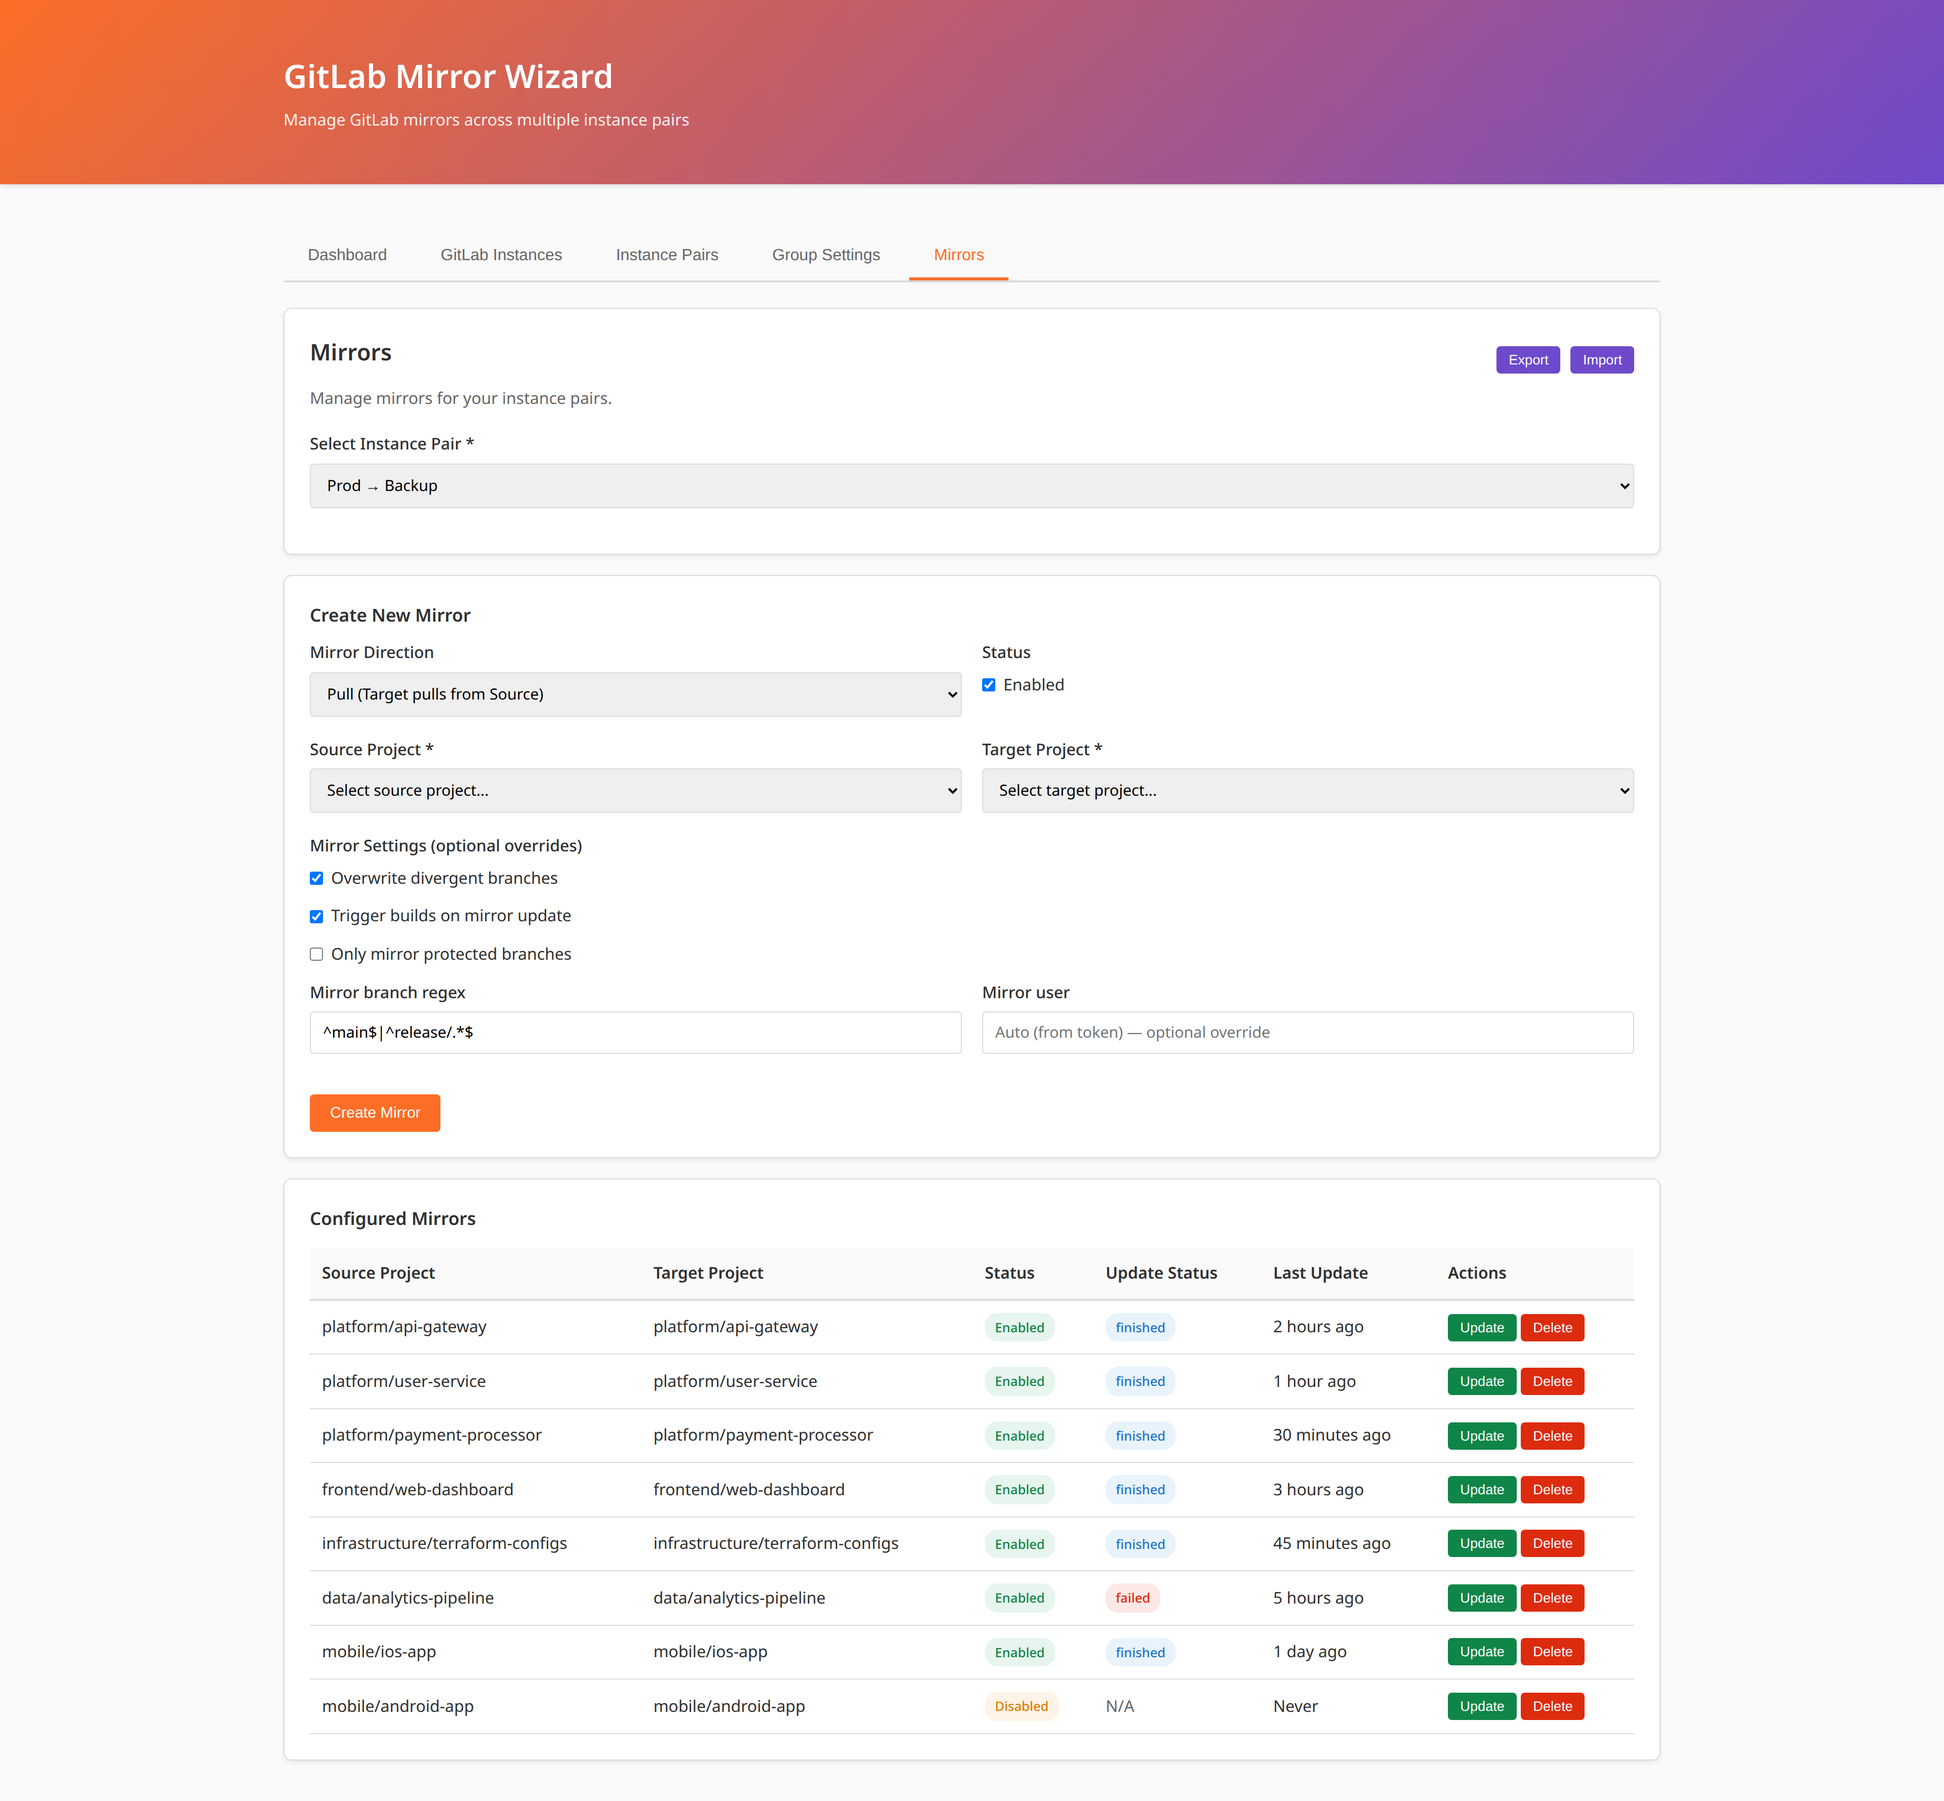
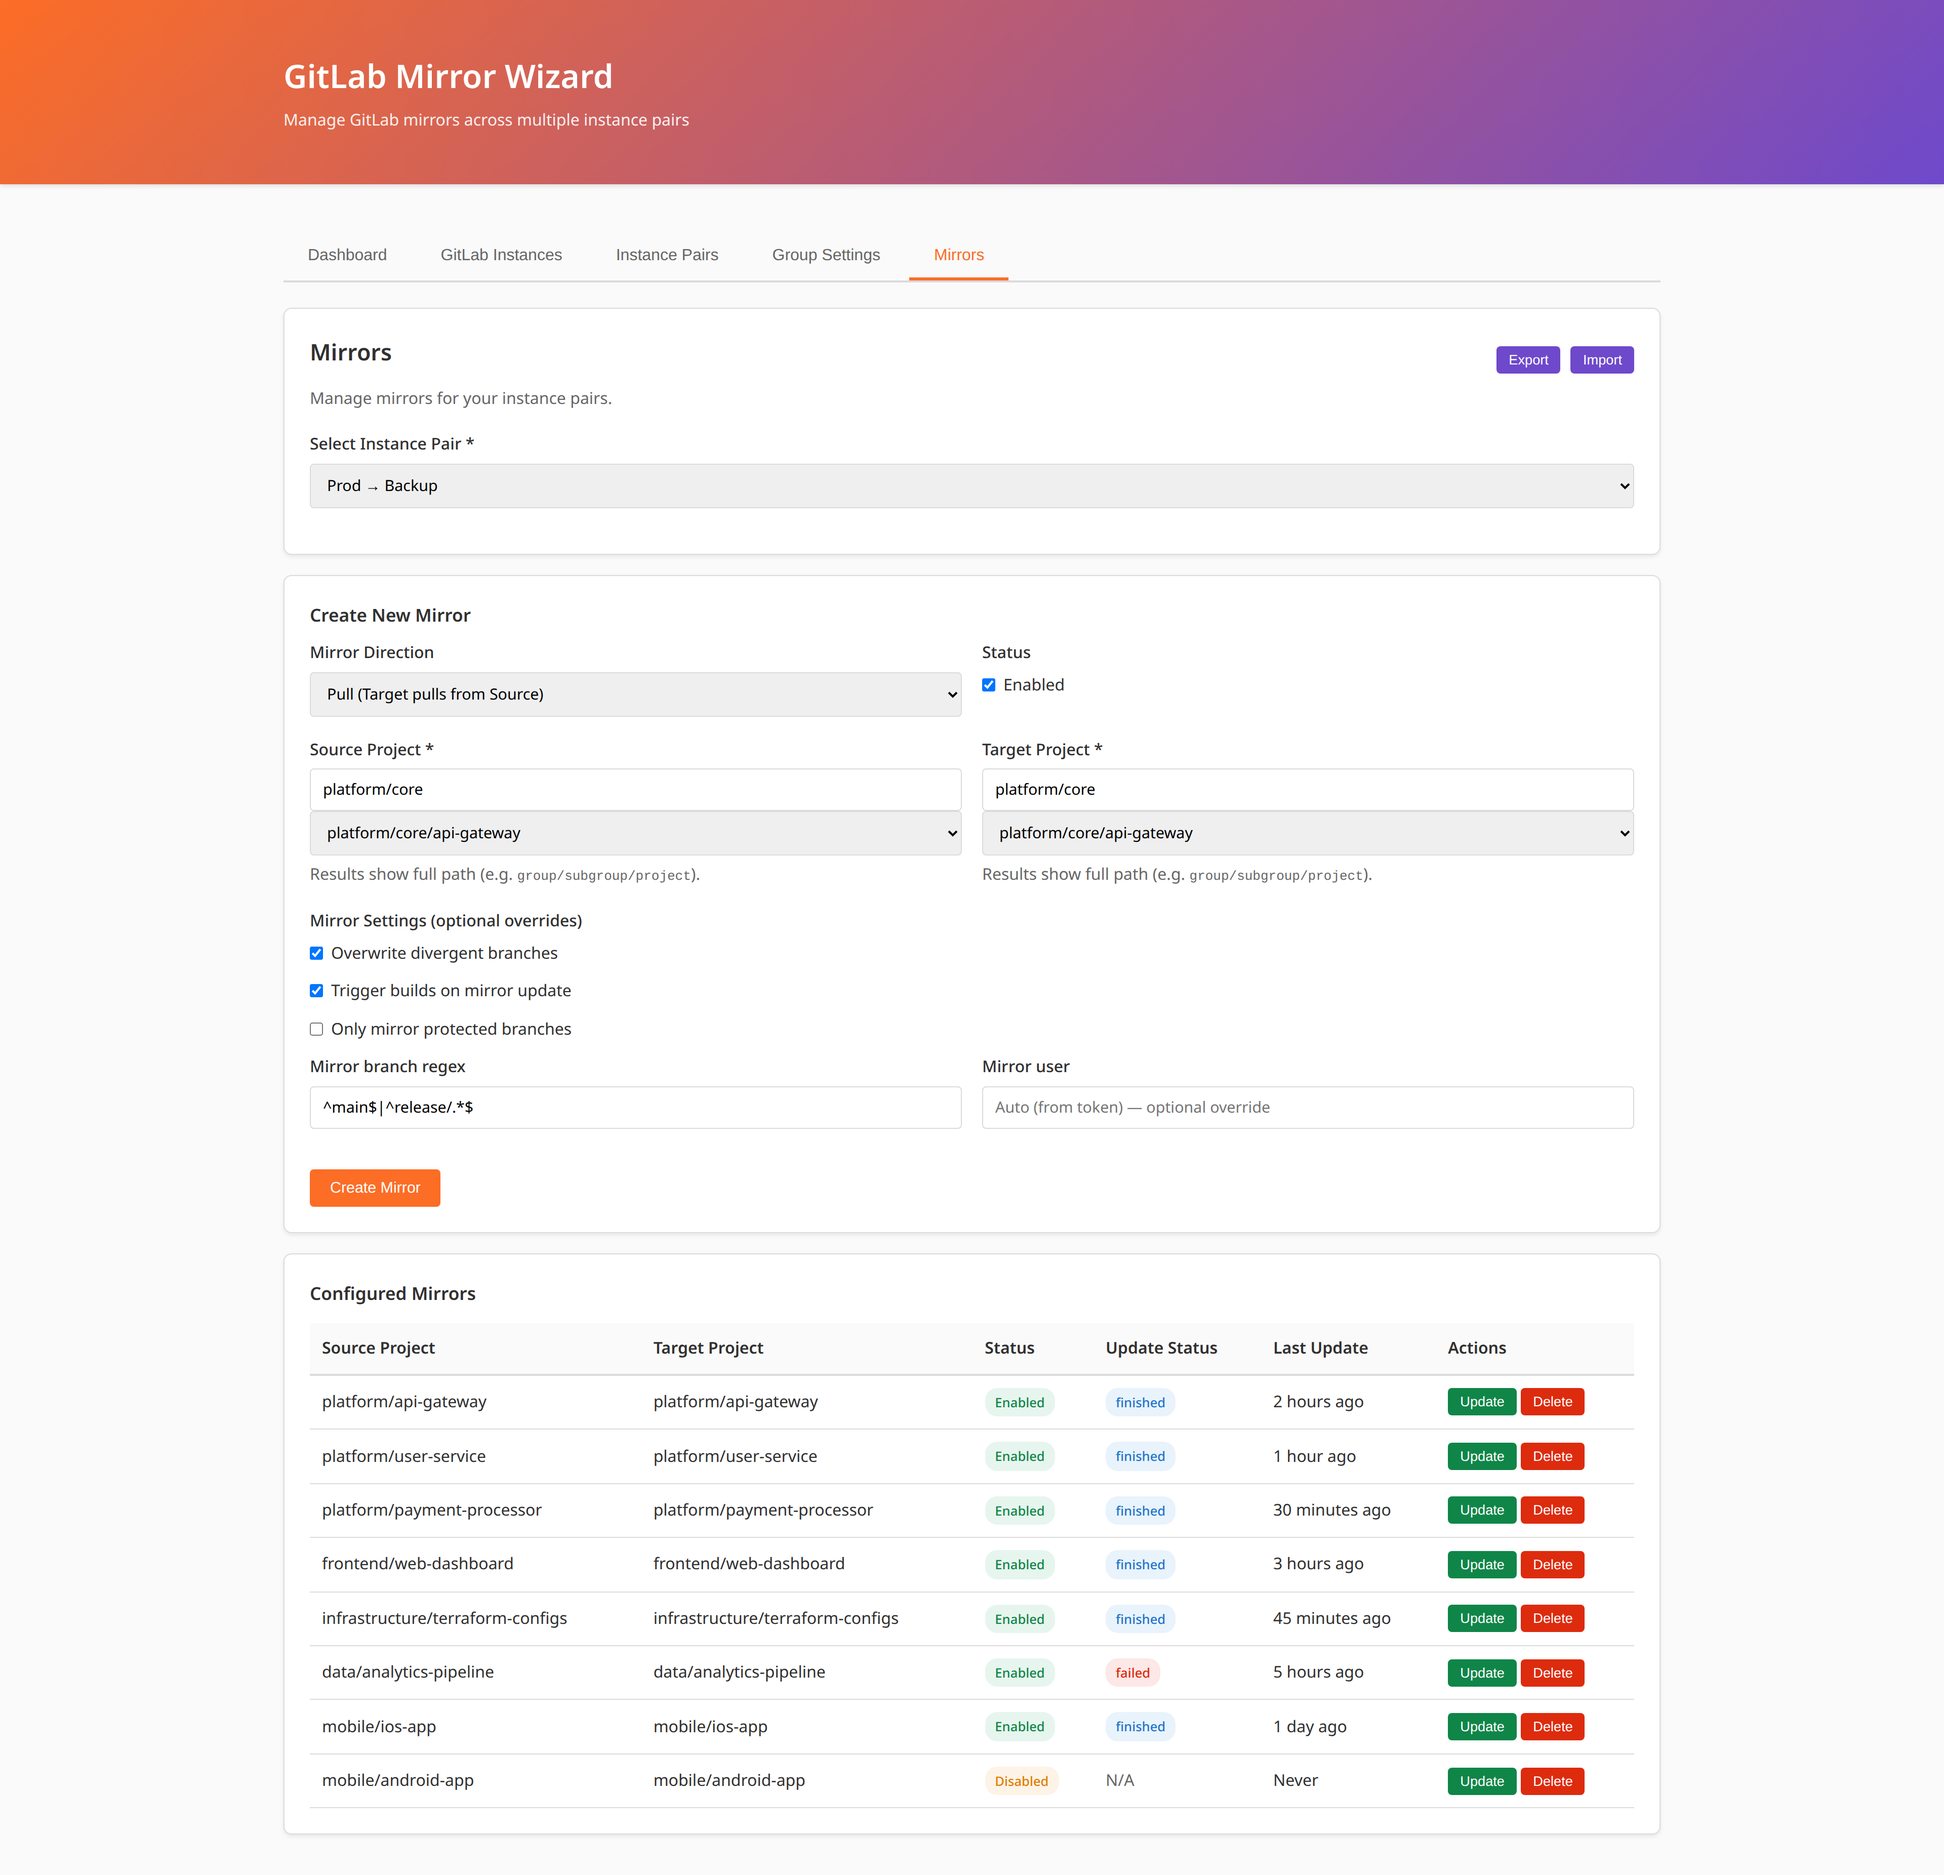
Feat: Add search functionality to mirror project selection

diff --git a/docs/screenshots/demo-mirrors.html b/docs/screenshots/demo-mirrors.html
@@ -70,31 +70,27 @@
                     <div class="form-row">
                         <div class="form-group">
                             <label for="mirror-source-project">Source Project *</label>
+                            <input type="text" id="mirror-source-project-search" placeholder="Type to search (min 2 chars)…" value="platform/core">
                             <select id="mirror-source-project" required>
                                 <option value="">Select source project...</option>
-                                <option value="123">platform/api-gateway</option>
-                                <option value="124">platform/user-service</option>
-                                <option value="125">platform/payment-processor</option>
-                                <option value="126">frontend/web-dashboard</option>
-                                <option value="127">infrastructure/terraform-configs</option>
-                                <option value="128">data/analytics-pipeline</option>
-                                <option value="129">mobile/ios-app</option>
-                                <option value="130">mobile/android-app</option>
+                                <option value="123" selected>platform/core/api-gateway</option>
+                                <option value="124">platform/core/user-service</option>
+                                <option value="125">platform/core/payment-processor</option>
+                                <option value="126">platform/edge/gateway-proxy</option>
                             </select>
+                            <div class="text-muted" style="margin-top: 6px;">Results show full path (e.g. <code>group/subgroup/project</code>).</div>
                         </div>
                         <div class="form-group">
                             <label for="mirror-target-project">Target Project *</label>
+                            <input type="text" id="mirror-target-project-search" placeholder="Type to search (min 2 chars)…" value="platform/core">
                             <select id="mirror-target-project" required>
                                 <option value="">Select target project...</option>
-                                <option value="456">platform/api-gateway</option>
-                                <option value="457">platform/user-service</option>
-                                <option value="458">platform/payment-processor</option>
-                                <option value="459">frontend/web-dashboard</option>
-                                <option value="460">infrastructure/terraform-configs</option>
-                                <option value="461">data/analytics-pipeline</option>
-                                <option value="462">mobile/ios-app</option>
-                                <option value="463">mobile/android-app</option>
+                                <option value="456" selected>platform/core/api-gateway</option>
+                                <option value="457">platform/core/user-service</option>
+                                <option value="458">platform/core/payment-processor</option>
+                                <option value="459">platform/edge/gateway-proxy</option>
                             </select>
+                            <div class="text-muted" style="margin-top: 6px;">Results show full path (e.g. <code>group/subgroup/project</code>).</div>
                         </div>
                     </div>
                     <div class="form-group">
